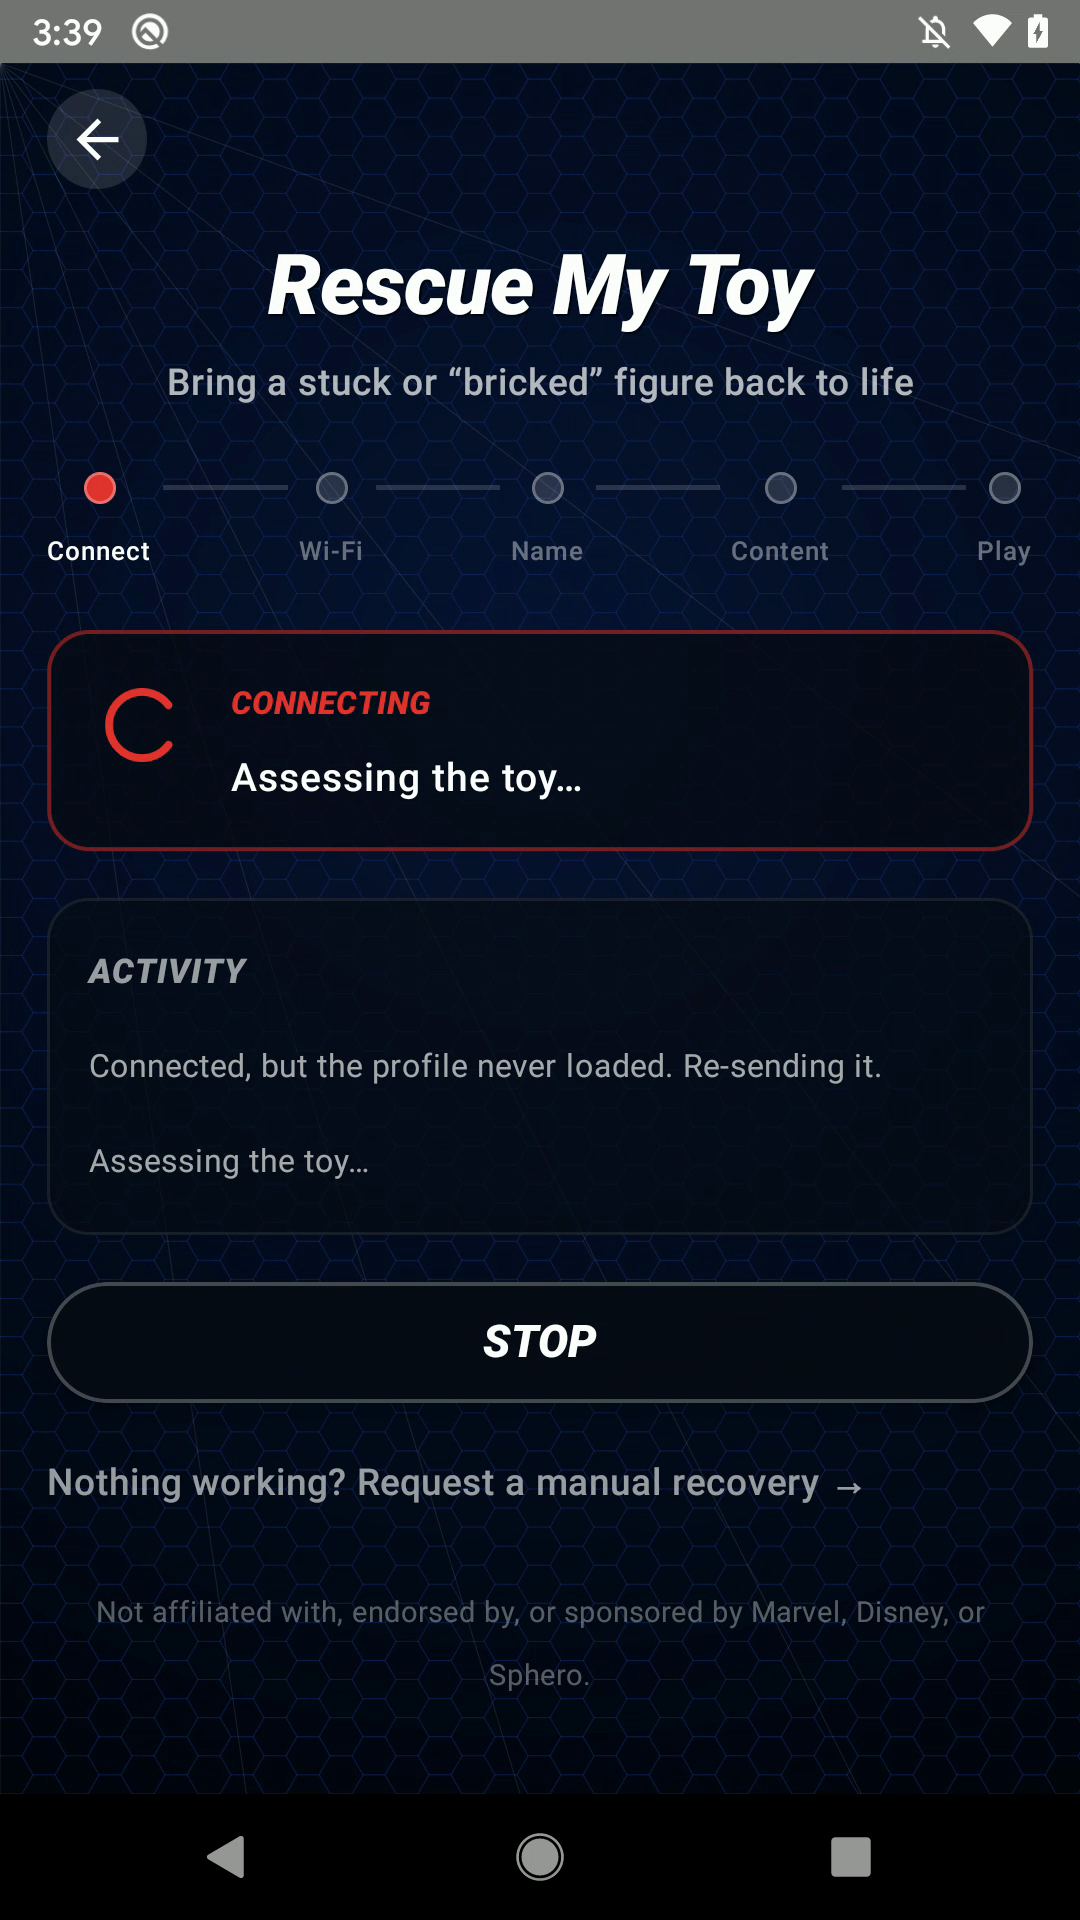
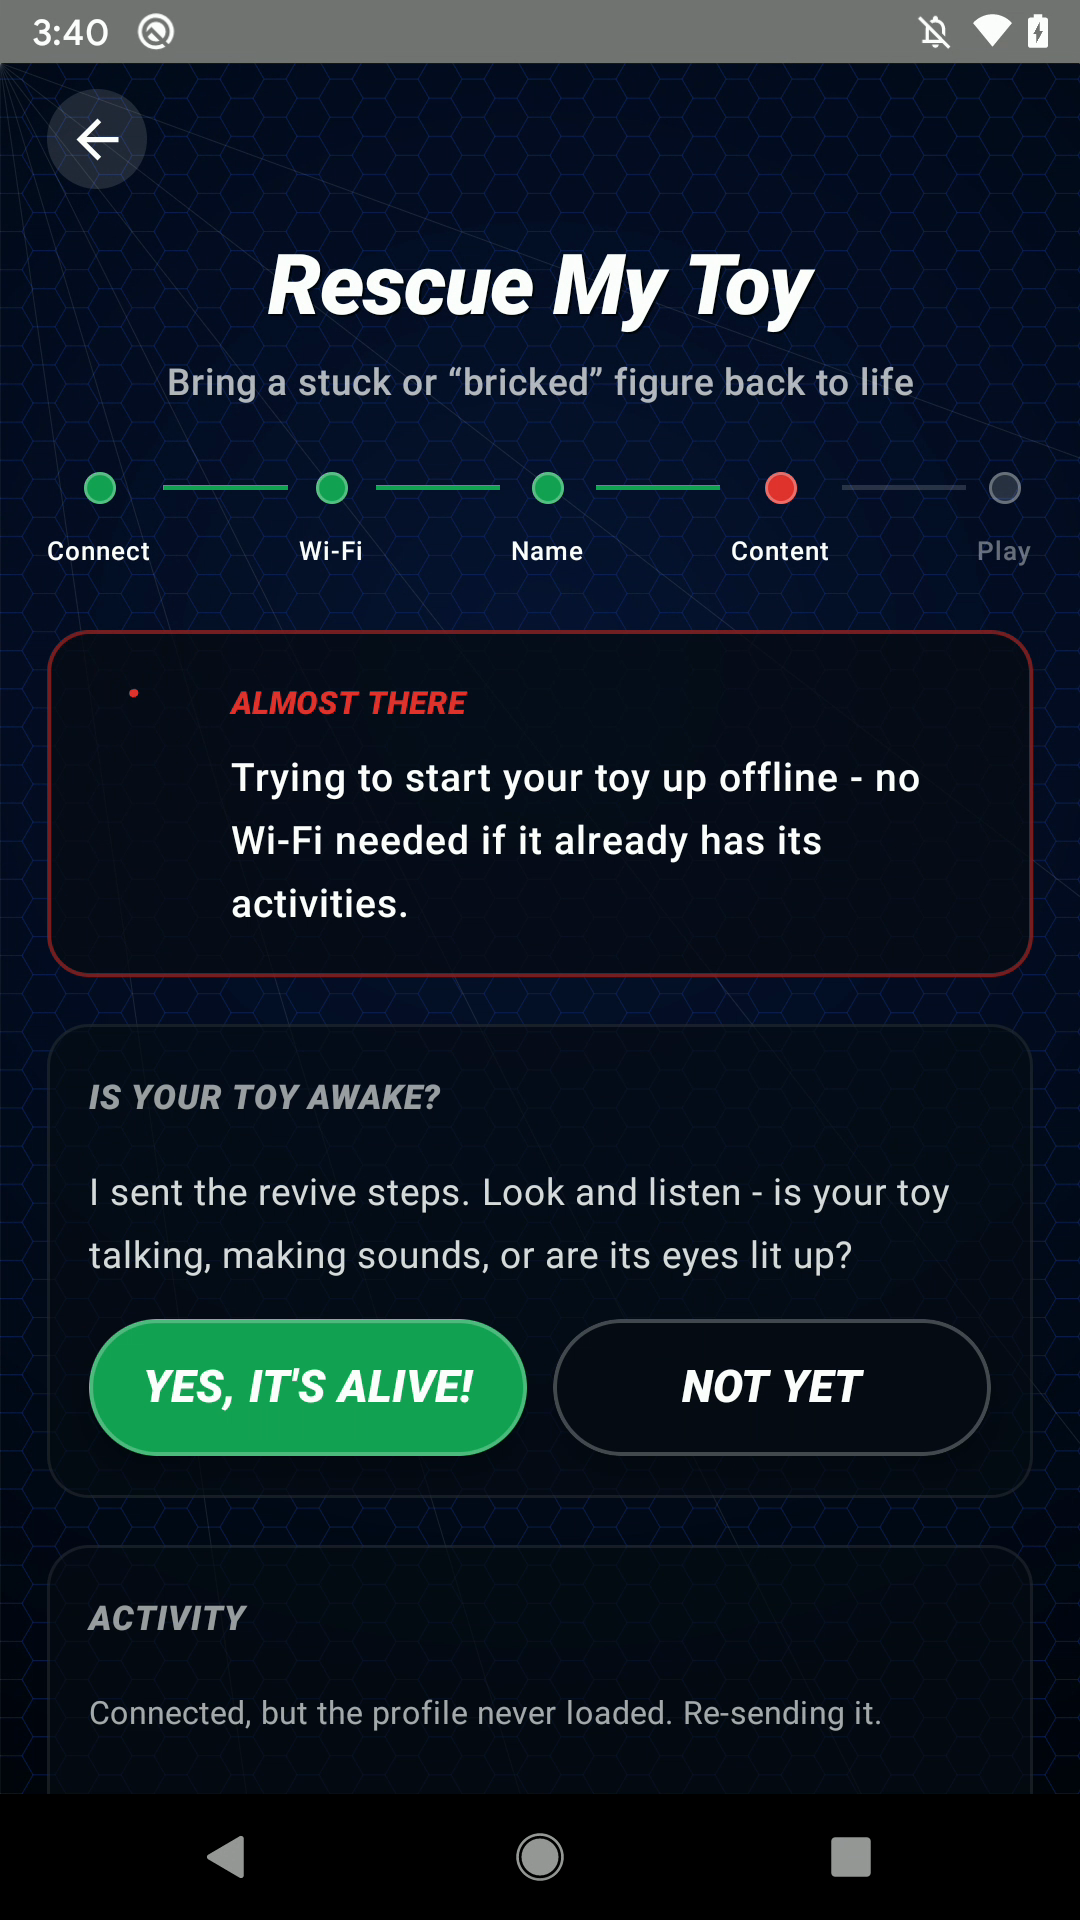
Use the late-stage rescue frame (Content, near Play) for the in-progress step
The Connect-stage frame showed only the first dot; this frame has Connect/Wi-Fi/
Name complete and Content underway - the rail almost at Play (which is the
success screen). Better conveys the rescue finishing.

diff --git a/docs/getting-started.md b/docs/getting-started.md
@@ -103,7 +103,7 @@ Here is the whole rescue, one screen at a time.
 
 **5. Start the rescue.** The app diagnoses the toy's state and runs the fixes it can do on its own. It only stops to ask you for a Wi-Fi password or a hero name if the toy actually needs one.
 
-![The rescue running: a Connect, Wi-Fi, Name, Content, Play progress rail with a live activity log](media/rescue-running.png)
+![The rescue nearly finished: Connect, Wi-Fi, and Name complete with Content underway on the Connect, Wi-Fi, Name, Content, Play progress rail](media/rescue-running.png)
 
 **6. You are back.** When the rescue finishes, the app tells you, and a chest press brings the toy to life.
 
